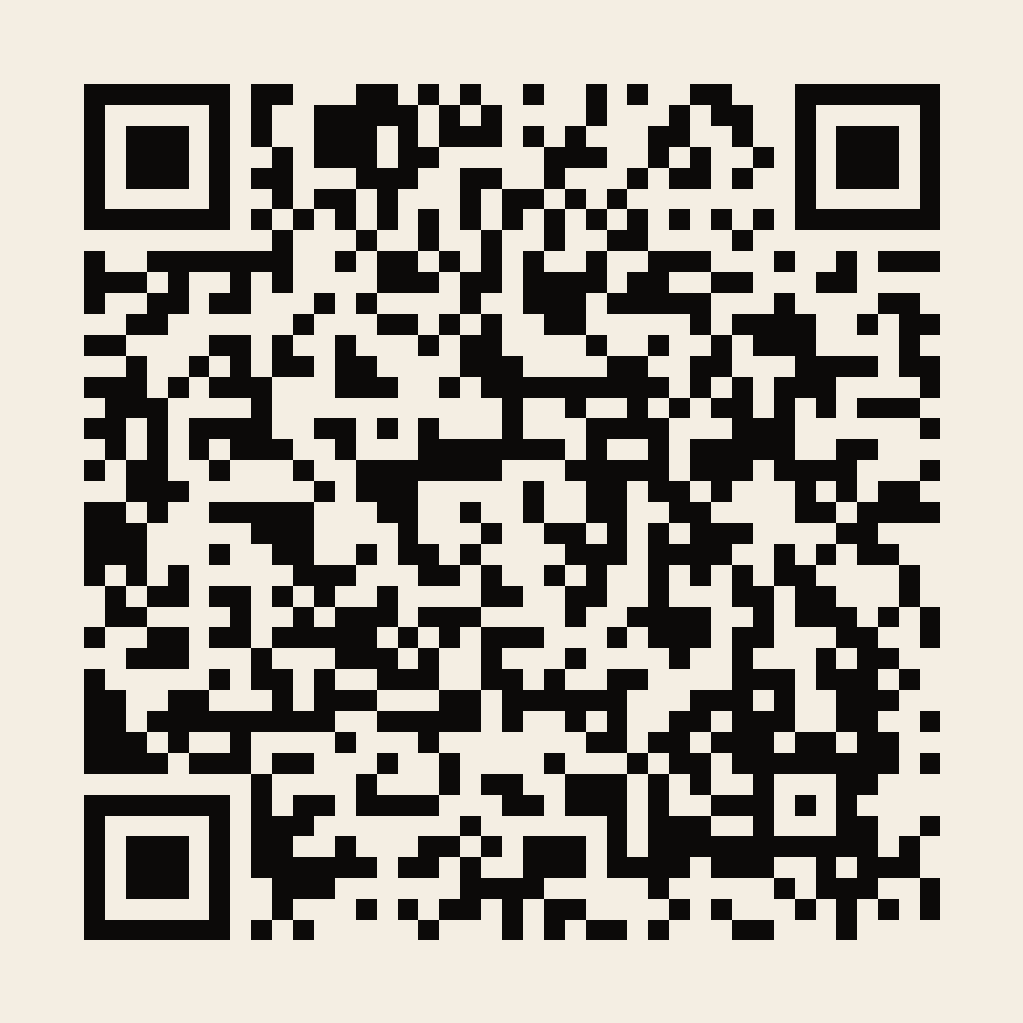
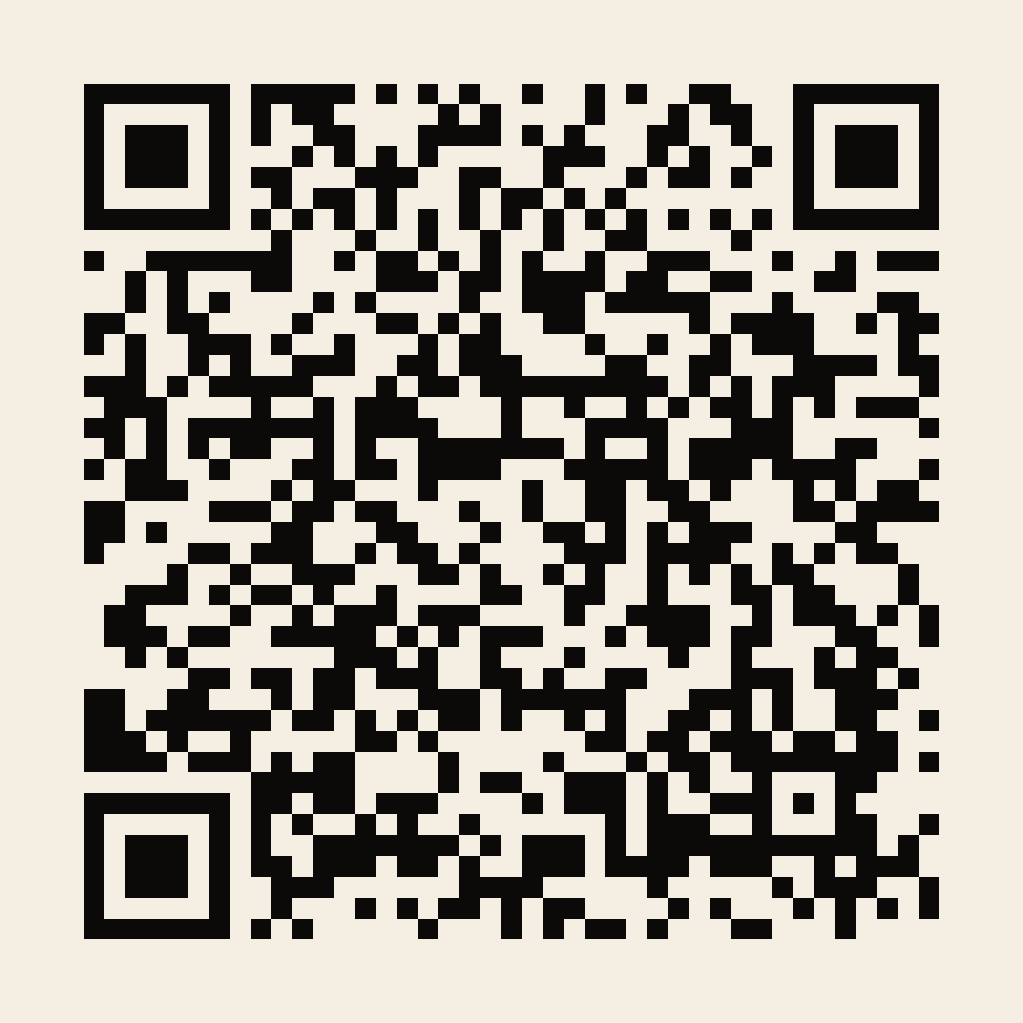
docs(android): point downloads to verified 0.1.1 release

diff --git a/web/src/features/install/copy.ts b/web/src/features/install/copy.ts
@@ -4,13 +4,13 @@
  * installs from the browser. Every sentence is about what exists on Solana devnet today.
  */
 
-/** The published Android build: GitHub release `android-v0.1.0`, built by EAS 09-25. */
+/** The published Android build: GitHub release `android-v0.1.1`, built by EAS 09-25. */
 export const ANDROID_RELEASE = {
-  version: "0.1.0",
-  url: "https://github.com/Blockchain-Oracle/agari/releases/download/android-v0.1.0/agari-0.1.0.apk",
-  page: "https://github.com/Blockchain-Oracle/agari/releases/tag/android-v0.1.0",
[1 lines of base64/hex data omitted]
-  sizeMb: 170,
+  version: "0.1.1",
+  url: "https://github.com/Blockchain-Oracle/agari/releases/download/android-v0.1.1/agari-0.1.1.apk",
+  page: "https://github.com/Blockchain-Oracle/agari/releases/tag/android-v0.1.1",
[1 lines of base64/hex data omitted]
+  sizeMb: 59.1,
   qr: "/download/agari-android-qr.svg",
 } as const;
 export const IOS_TESTFLIGHT = {

diff --git a/mobile/TAKEOVER_STATUS.md b/mobile/TAKEOVER_STATUS.md
@@ -11,9 +11,13 @@
   ElevenLabs sounds (`assets/sounds/onboard-*.mp3`).
 - **Deployed 09-25:** web + ops at 04579d2b (push-clock and switchboard-spot live; `PUSH_DRAIN_SECRET` set on both),
   then web + docs again with /download and the docs page.
-- **Android:** APK on GitHub release `android-v0.1.0` (EAS build ece6a36d, preview profile, remote keystore);
[1 lines of base64/hex data omitted]
-  on `babel-preset-expo` not being a direct dependency (fixed 5f353d09). QR: `~/dev/hackathon/agari-release/`.
+- **Android 0.1.1:** EAS preview build `04b4ad72-3294-4f9b-b289-99cb828bd64b`, versionCode 2,
+  arm64-v8a only with compressed native libraries (`extractNativeLibs=true`). The APK is 59,148,677 bytes,
[1 lines of base64/hex data omitted]
+  Signature, archive, package metadata, emulator install and launch passed. The Samsung owner installed from the
+  test download link and reported "tha app works now lol" on 09-25, then tapped the downloaded APK in My Files and
+  confirmed "Update/Install works." The owner declined Wireless debugging, so the old Samsung `INSTALL_FAILED_*`
+  code was not captured; the exact cause of the original install failure remains unverified.
 - **iOS:** App Store Connect app "Agari – Call the Close" (6816116543). Build 9 (0.1.0) uploaded with `xcrun altool`
   (EAS's submit queue stalled; key copied to `~/.appstoreconnect/private_keys/`), VALID, internal testing ready.
   Public group "Agari Beta" (`https://testflight.apple.com/join/g3MnDrr7`) holds build 9, beta review submitted

diff --git a/README.md b/README.md
@@ -14,7 +14,7 @@
 
 Agari runs on Android and iPhone as well as the web, on the same Solana devnet Windows.
 
[2 lines of base64/hex data omitted]
 - **iPhone:** TestFlight is next. Until then, add [useagari.xyz](https://useagari.xyz) to your Home Screen from Safari.
 
 The app source is in [mobile](mobile); [Get the app](https://docs.useagari.xyz/start/mobile-app) covers wallets on a phone, one-tap trading and notifications.
